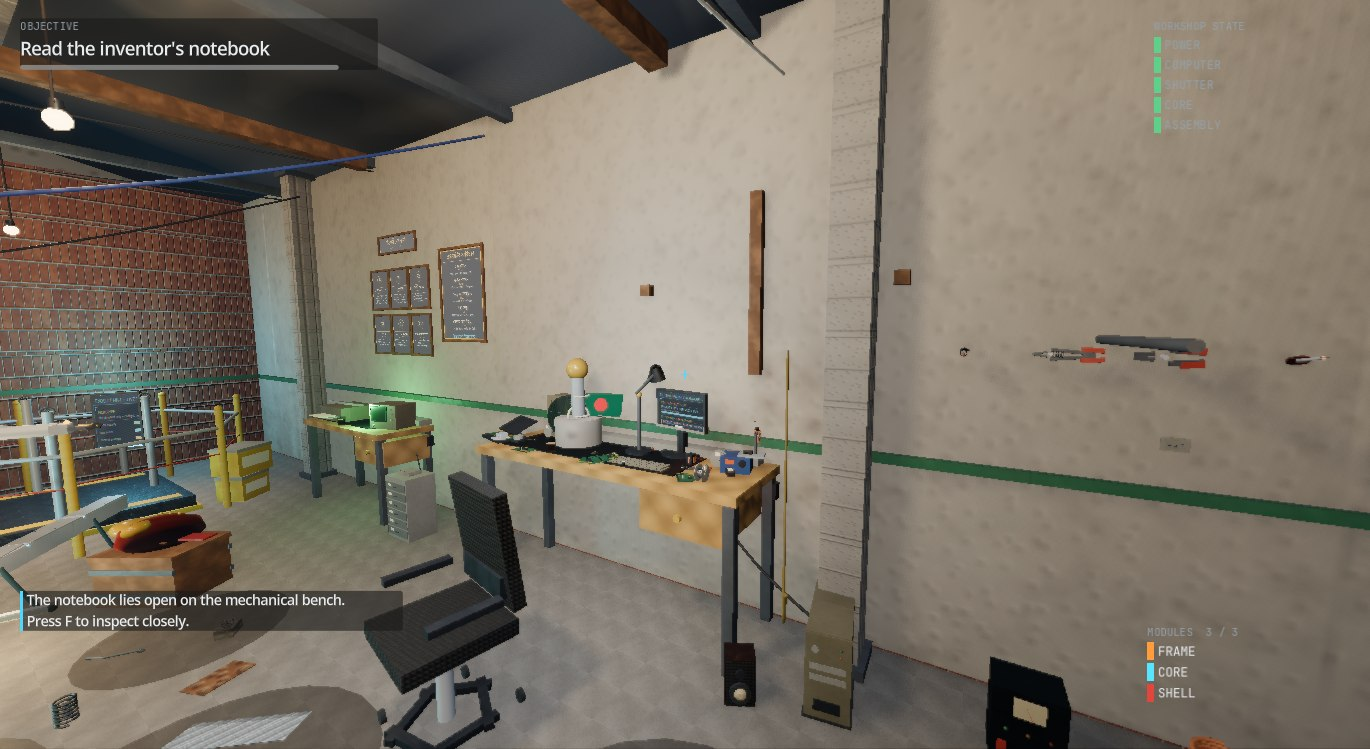
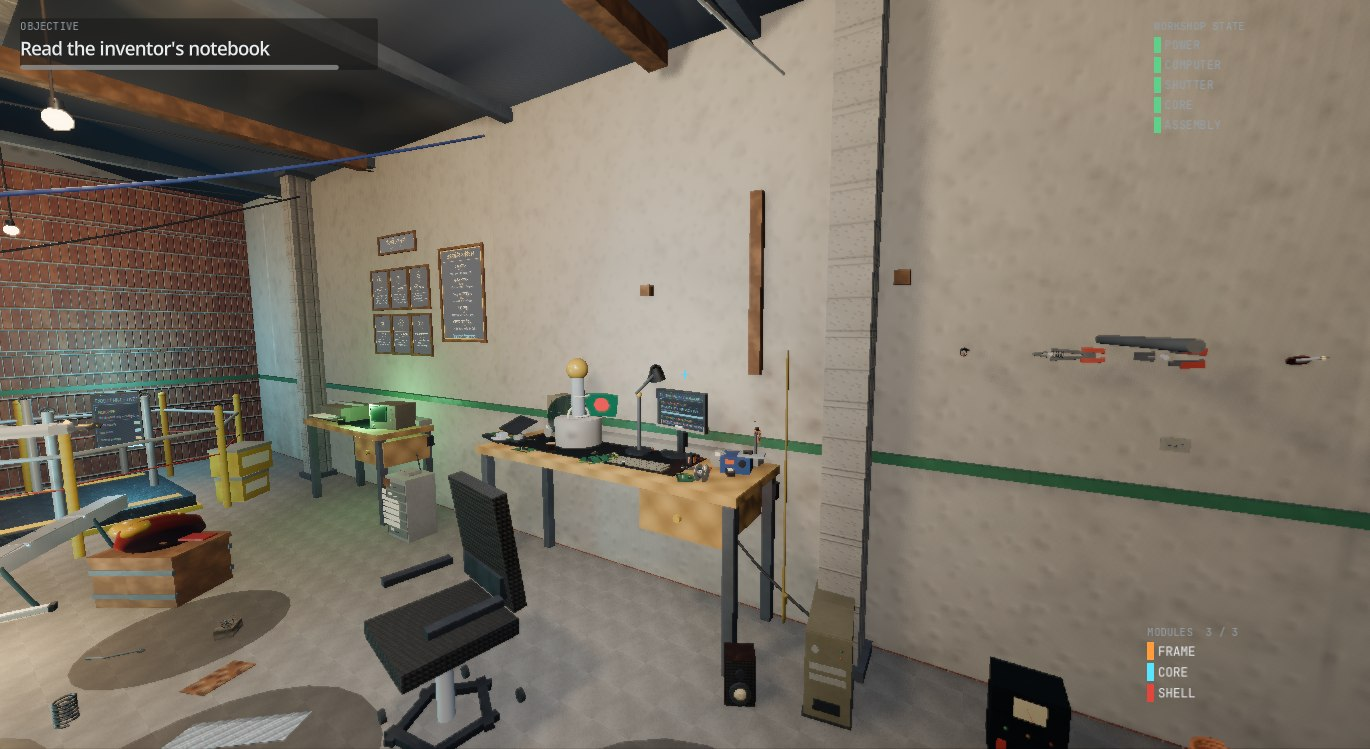
Faked wear on the walls and floor, and a placement-clearing pass on eight real clashes
The detail pass (all flush overlays and chips — no props, no stations, no
lights, so the counts and the frame cost stay where they were):

- Painted tool outlines on the mechanical pegboard — hammer, wrench, spanner,
  saw, screwdriver, pliers in dark paint, sitting between the board and the
  hanging tools, the way every workshop paints each tool's shadow on its board.
- Chalk notes on the floor by the walk lane: a Bangla dimension, an arrow,
  "SUIT MK-I ?", a circled question, ticked measurement lines.
- Bench wear on the workbench top, under the clutter: tea rings, an old oil
  spill pressed into the grain, scratches.
- A six-row paper label strip (IC, R, C, LED, SCR, ?) on the component-drawer
  front, sized from the drawer's measured 0.51 m height after the first attempt
  floated half above the cabinet.
- Four stickers: the IPS cabinet, the switchboard, the bench apron, and the
  drawer front (that one moved off mid-air onto the drawer after the audit).

The overlap pass (tests/overlap_audit.gd finds every intersecting pair worst
first; tests/where_is.gd prints exact boxes, so fixes were computed, not
guessed). Fixed where the boxes proved real clashes:
- The scrap bin sat inside the bicycle's wheel area in the courtyard and partly
  in the walk lane — moved to the far corner by the street wall.
- A sack sat half inside the entrance component crate — moved beside the gate.
- The entrance stool was jammed into the battery rack's corner — moved clear.
[…]

Changed region(s): [[0.0, 0.7677, 0.3066, 0.8598], [0.2759, 0.6449, 0.3066, 0.7063], [0.4292, 0.522, 0.4599, 0.5527]]

diff --git a/docs/SYSTEM_ARCHITECTURE.md b/docs/SYSTEM_ARCHITECTURE.md
@@ -82,16 +82,16 @@ progress.
 
 | Step | What it does | Measured (UHD 620) |
 |---|---|---|
-| 0 | `MaterialLibrary.ensure_built()`, first surface synthesised | 269 ms for one 256 px surface (262–283 across runs) |
-| 1 | `GarageStructure.build()` — floor, plinths, courtyard, walls, columns, roof, shutter frame, entrance apron, windows | 5 912 ms |
-| 2 | `GarageEnvironment.build()` — sky, WorldEnvironment, 29 lights in 4 circuits, dust, rain (the five always-on bulbs and the sign's RGB rig are registered by the dressing, each light attached to its own prop) | 37 ms |
-| 3 | `GarageDressing.dress()` — 5 areas, 4 procedural layout groups, 2 wall racks, cables, signage, the always-on bulbs, the wall maps, the sign's RGB rig, the photographs, the notice wall | 5 187 ms |
+| 0 | `MaterialLibrary.ensure_built()`, first surface synthesised | 275 ms for one 256 px surface (262–283 across runs) |
+| 1 | `GarageStructure.build()` — floor, plinths, courtyard, walls, columns, roof, shutter frame, entrance apron, windows | 5 846 ms |
+| 2 | `GarageEnvironment.build()` — sky, WorldEnvironment, 29 lights in 4 circuits, dust, rain (the five always-on bulbs and the sign's RGB rig are registered by the dressing, each light attached to its own prop) | 36 ms |
+| 3 | `GarageDressing.dress()` — 5 areas, 4 procedural layout groups, 2 wall racks, cables, signage, the always-on bulbs, the wall maps, the sign's RGB rig, the photographs, the notice wall, the faked-wear overlays | 5 345 ms |
 | 4 | Area volumes | — |
-| 5 | Live `SubViewport`s for 5 screens, attached to their materials | 78 ms |
-| 6 | Player, camera, ray, reticle, collision, capsule sizing | 32 ms |
-| 7 | HUD, all panels, `ObjectiveDirector`, `start()` | 201 ms |
+| 5 | Live `SubViewport`s for 5 screens, attached to their materials | 64 ms |
+| 6 | Player, camera, ray, reticle, collision, capsule sizing | 30 ms |
+| 7 | HUD, all panels, `ObjectiveDirector`, `start()` | 166 ms |
 | 8 | `_apply_restored_state()` — replays a saved run with `instant = true` | — |
-| | **total** | **11 716 ms** |
+| | **total** | **11 762 ms** |
 
 Surfaces are synthesised **lazily**, on first request. Loading every recipe up front would cost
 roughly 9.5 s for all 34 at 256 px; the garage actually touches 34 of them, so the saving is in the
@@ -367,12 +367,14 @@ so that `tests/validate_scripts.gd` can run in an environment with no GPU.
 
 | Mechanism | What it covers |
 |---|---|
-| `tests/validate_scripts.gd` | Loads and compiles all 43 scripts headless; fails loudly on any parse or compile error. This is the primary guard, and it caught every error class during development. |
+| `tests/validate_scripts.gd` | Loads and compiles all 45 scripts headless; fails loudly on any parse or compile error. This is the primary guard, and it caught every error class during development. |
 | `tests/timing_probe.gd` | Measures one surface at 256/384/512 px. The instrumentation that established the texture budget. |
 | `tests/introspect.gd` | Engine API introspection. Used to pin exact signatures when they were uncertain rather than guessing. |
 | `tests/dump_floor.gd` | Builds the world headless and reports: every node within a radius of a floor point, the dressing's occupancy boxes with their owning stations, per-child bound audits, and a full carry-system exercise — surface heights, a pick-up/place cycle and the put-back path. Written to turn "the screenshot shows something odd" into a named object, and "the carry maths should work" into measured numbers. |
 | `tests/carry_audit.gd` | Builds the world headless and prints every candidate the carry system could hold with its true bounding size and the live cap, checks that the fitted things (the gate, the windows, the flag mast, the prototype suit) are absent from the gathered set, and runs pick/place probes on the largest items — the workbench, the bicycle, the holo table — proving each settles onto a real surface and can be put back. The tool that decided the 3.1 m cap. |
 | `tests/walk_in.gd` | Builds the world headless, takes control of the real player and drives it from the spawn into the shop, back out and sideways across the courtyard, printing position, floor contact, stalls and — when stalled — the exact collider being slid against. This is what proved the entrance lip unclimbable, the courtyard boundless, and the gravity-accumulation pinning on slopes (`docs/EXPERIMENTS.md` §7.6). |
+| `tests/overlap_audit.gd` | Builds the world headless and reports which placed props have intersecting world bounding boxes, worst first — the work list behind the placement-clearing pass (bin off the bicycle, sack out of the crate, stool off the rack, towel out of the fan's sweep). AABB nesting makes some pairs legitimate; the tool documents that. |
+| `tests/where_is.gd` | Builds the world headless and prints named props' positions and bounding boxes, so placement clashes are fixed from numbers instead of screenshots. |
 | Perf harness (`perf.flag`) | Drives the full progression, then samples three fixed viewpoints twice each — shipped settings and the earlier values flipped back at runtime in the same session — and writes a paired A/B table to `user://captures/perf.log`. Its first run is what exposed the shadow-budget bug and the session's 7.5 Hz presentation cap (`docs/EXPERIMENTS.md` §7.5). |
 | `tests/bake_preview.gd` | Renders the lab-wall plate specs (scientists, header, inventions board) and the wall maps (Bangladesh, Sylhet) to PNGs in `user://captures/`, so Bengali on a wall can be proof-read at full resolution without launching the garage. |
 | Capture harness | Boots the real renderer, drives the full progression, writes 19 PNGs plus luminance histograms and a build report. Catches the class of failure that compiles cleanly and renders nothing. |

diff --git a/docs/EXPERIMENTS.md b/docs/EXPERIMENTS.md
@@ -378,14 +378,14 @@ performance work.
 
 | Step | Time | Share | What dominates |
 |---|---|---|---|
-| Surface synthesis (first surface) | 269 ms | 2.3% | the per-texel loop |
-| Structure — floor, walls, columns, roof, shutter, entrance apron, windows | 5 912 ms | 50.5% | mesh generation, collision shapes, and the surfaces it requests |
-| Environment — sky, `WorldEnvironment`, 29 lights, dust, rain | 37 ms | 0.3% | negligible |
-| Dressing — 192 placements, 54 stations, 4 layout groups, cables, signage, grime decals, wall plaques, flag, coin, always-on bulbs, wall maps, the sign's RGB rig, photographs, the notice wall | 5 187 ms | 44.3% | prop construction, station wiring, and its surfaces |
-| Screens — 5 live `SubViewport`s and their materials | 78 ms | 0.7% | — |
-| Player — camera, ray, reticle, collision | 32 ms | 0.3% | — |
-| Interface — HUD, 10 panels, objective director | 201 ms | 1.7% | — |
-| **Total** | **11 716 ms** | **100%** | |
+| Surface synthesis (first surface) | 275 ms | 2.3% | the per-texel loop |
+| Structure — floor, walls, columns, roof, shutter, entrance apron, windows | 5 846 ms | 49.7% | mesh generation, collision shapes, and the surfaces it requests |
+| Environment — sky, `WorldEnvironment`, 29 lights, dust, rain | 36 ms | 0.3% | negligible |
+| Dressing — 192 placements, 54 stations, 4 layout groups, cables, signage, grime decals, wall plaques, flag, coin, always-on bulbs, wall maps, the sign's RGB rig, photographs, the notice wall, the faked-wear overlays | 5 345 ms | 45.4% | prop construction, station wiring, and its surfaces |
+| Screens — 5 live `SubViewport`s and their materials | 64 ms | 0.5% | — |
+| Player — camera, ray, reticle, collision | 30 ms | 0.3% | — |
+| Interface — HUD, 10 panels, objective director | 166 ms | 1.4% | — |
+| **Total** | **11 762 ms** | **100%** | |
 
 **Dressing breakdown, `GarageDressing.dressing_breakdown()`**
 
@@ -401,10 +401,10 @@ performance work.
 | Rejection-sampler efficiency | 46% of attempts produce a placement |
 
 The counts above are from the shipped build. The per-step times are from the latest capture run;
-the same garage measured 11 509 ms, 11 466 ms, 11 015 ms and 12 473 ms across the day's earlier
-runs, so treat absolute milliseconds as load-dependent — they drift by about 20% when something else
-is using the laptop — and the shares as the finding. This is worth stating rather than pretending the
-machine is a benchmark rig.
+the same garage measured 11 716 ms, 11 509 ms, 11 466 ms, 11 015 ms and 12 473 ms across the day's
+earlier runs, so treat absolute milliseconds as load-dependent — they drift by about 20% when
+something else is using the laptop — and the shares as the finding. This is worth stating rather than
+pretending the machine is a benchmark rig.
 
 **Finding 7.1 — surface synthesis dominates the wall clock.** The first surface costs 262–283 ms across
 runs in step 0; the other 33 are synthesised lazily inside the structure and dressing steps. At

diff --git a/docs/PROJECT_OVERVIEW.md b/docs/PROJECT_OVERVIEW.md
@@ -153,6 +153,7 @@ recorded in `docs/ASSET_LICENSES.md`.
 | Shop signboard | Hand-painted tin over the gate, now framed in a chasing **RGB LED strip** (its own shader) with two colour-cycling washes — all on the incoming line, so the board stays bright and the street gets its neon whatever the switchboard does |
 | Keepsakes | The author's own photographs as wall art: a framed row above the mechanical bench (a Bangladesh Railway locomotive, Ali Amjad's clock, a lab batch around a CRT), the team photo leaning by the notebook, the exosuit concept poster on the wall the stand faces, and a desk flag — loaded through the same no-import `photo_print()` path as the street banner |
 | Notice wall | Thirteen community-licensed (CC BY-SA 4.0) photographs of the country — rickshaws, Sadarghat market, a Khulna tea stall, the Sylhet tea gardens, the railway, boats, paddy — pinned crooked to a plywood board on the entrance wall; every file's author and source recorded in `docs/ASSET_LICENSES.md` |
+| Faked wear | Flush overlays and chips that make the room read used: painted tool outlines on the pegboard, chalk dimension notes on the floor, tea rings and an old spill on the bench top, a six-row paper label strip on the component drawers, and a scatter of stickers — no props, no stations, no lights |
 | Auto-opening gate | The shutter's presence sensor rolls the curtain up as anyone approaches the courtyard — it starts most of the way down and the room wakes up as it lifts. It can no longer be lowered |
 | Always-on bulbs | Five bare bulbs — walk lane, both benches, the testing corner, the store — are wired ahead of the switchboard to the incoming line, outside every switchable circuit: the room is never dark, even at the start, and each bulb carries its own light when you pick it up |
 | Entrance | A concrete apron ramps the doorway down to the packed earth so the shop can be walked into and out of without breaking stride, and the courtyard is walled in — walking past the street wall or the neighbour walls stops you instead of dropping you out of the world |
@@ -201,8 +202,8 @@ assembly sequence. That is the localisation requirement, implemented as configur
 
 On Intel UHD 620 at 1600×900, Forward+:
 
-- Garage build: **11.7 s** in the latest capture run (5.9 s structure, 5.2 s dressing for 192
-  placements; the same build has measured 11.0–12.5 s across earlier runs — machine load moves it;
+- Garage build: **11.8 s** in the latest capture run (5.8 s structure, 5.3 s dressing for 192
+  placements; the same build has measured 11.0–13.5 s across earlier runs — machine load moves it;
   most of the total is surface synthesis, spread across both steps)
 - Medium preset: 40–55 fps measured before the preset retune — SDFGI and volumetric fog off, SSR on,
   five shadow casters; the retune cut a further 13–27 ms of CPU frame time (`docs/EXPERIMENTS.md` §7.5)

diff --git a/README.md b/README.md
@@ -332,13 +332,15 @@ scripts/
   player/                   # Player
   ui/                       # Hud, BenchmarkPanel, MainMenu
 tests/
-  validate_scripts.gd       # headless compile check for all 43 scripts
+  validate_scripts.gd       # headless compile check for all 45 scripts
   timing_probe.gd           # measures surface synthesis at three resolutions
   introspect.gd             # engine API introspection, used during development
   dump_floor.gd             # headless scene inspector: names what a capture shows
   bake_preview.gd           # bakes signage recipes to PNGs for proof-reading
   carry_audit.gd            # sizes every prop and exercises pick/place headlessly
   walk_in.gd                # drives the real player in, out and across the yard
+  overlap_audit.gd          # lists clashing prop pairs, worst first
+  where_is.gd               # prints named props' positions and boxes
 docs/                       # eight thesis documents
 ```
 

diff --git a/docs/USER_MANUAL.md b/docs/USER_MANUAL.md
@@ -267,7 +267,9 @@ older batch of students around a half-stripped television — the team photo lea
 the exosuit concept poster on the wall the assembly stand faces, and a desk flag on the electronics
 bench. At the entrance, a plywood board pins thirteen pictures of the country itself — rickshaws,
 markets, tea gardens, boats, paddy — the community-licensed set whose credits are listed in
-`docs/ASSET_LICENSES.md`. `F` on any of them for the story.
+`docs/ASSET_LICENSES.md`. And the room keeps the marks of work: painted tool outlines on the
+pegboard, chalk notes on the floor, tea rings on the bench top, paper labels on the drawers, a
+sticker here and there. `F` on any of the pictures for the story.
 
 ---
 
